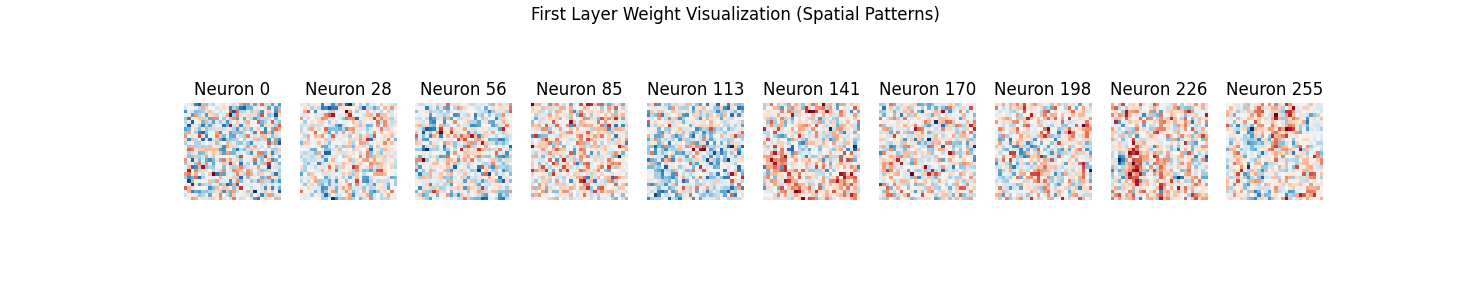
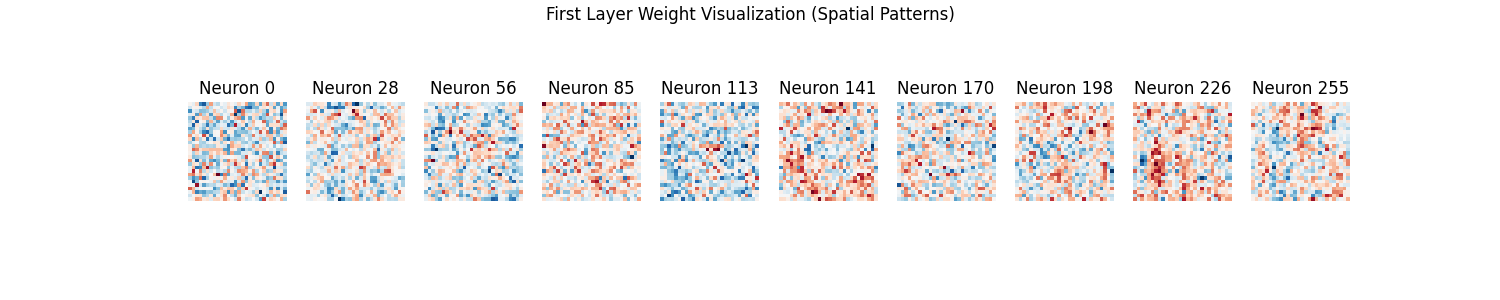
可视化改进

Changed region(s): [[0.1224, 0.27, 0.9184, 0.69], [0.3367, 0.0, 0.6429, 0.09]]

diff --git a/visualize.py b/visualize.py
@@ -19,6 +19,7 @@ def visualize_first_layer_weights(W1, num_to_show=10):
         plt.axis('off')
     
     plt.suptitle("First Layer Weight Visualization (Spatial Patterns)")
+    plt.savefig('weight_visualization.png') #savepig必须放在show的前面，因为show会清空画布
     plt.show()
 
 import matplotlib.pyplot as plt
@@ -80,7 +81,8 @@ def plot_error_samples(model, X_test, y_test, class_names, max_samples=16):
         
     plt.suptitle(f"Error Analysis (Showing {len(selected_indices)} typical errors)", fontsize=16)
     plt.tight_layout()
-    plt.subplots_adjust(top=0.92) # 给主标题留点空
+    plt.subplots_adjust(top=0.92) 
+    plt.savefig('error_analysis.png') 
     plt.show()
 
 if __name__ == "__main__":
@@ -107,3 +109,4 @@ if __name__ == "__main__":
     
     print("\n正在生成错例分析图...")
     plot_error_samples(model, X_test, y_test, class_names)
+   

diff --git a/train.py b/train.py
@@ -14,9 +14,6 @@ def calculate_accuracy(model, X, y):
 
 
 def plot_learning_curves(history):
-    """
-    绘制训练过程的 Loss 和 Accuracy 曲线
-    """
     plt.rcParams.update({'font.size': 12})
     fig, axes = plt.subplots(1, 2, figsize=(14, 5))
     #绘制Loss曲线
